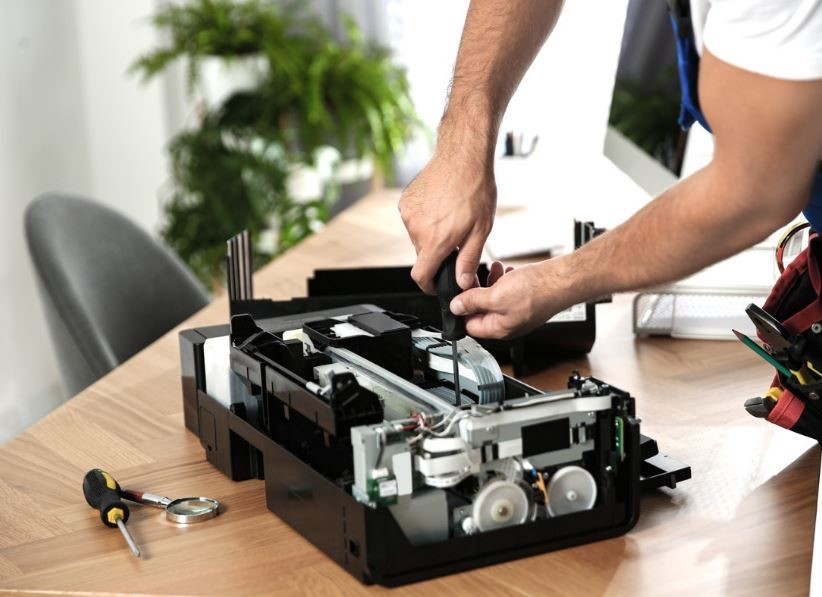
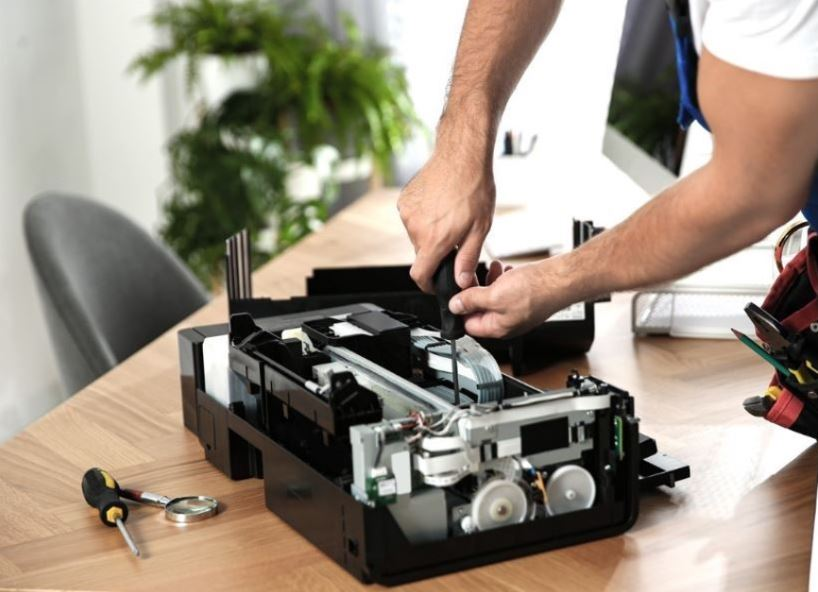
version 2 corregida

diff --git a/css/style.scss b/css/style.scss
@@ -103,7 +103,7 @@ header {
 }
 
 /*---------------------------------------------------------------------------------------------------------------------------------------------------*/
-.hero { background: linear-gradient(rgba(75, 77, 78, 0.8), rgba(0,0,0,0.5)), url('assets/image/background.JPG'); background-size: cover; background-position: center; height: 70vh; color: white; display: flex; flex-direction: column; justify-content: center; align-items: center; text-align: center; padding: 0 20px; }
+.hero { background: linear-gradient(rgba(75, 77, 78, 0.8), rgba(0,0,0,0.5)), url('/assets/image/background.JPG'); background-size: cover; background-position: center; height: 70vh; color: white; display: flex; flex-direction: column; justify-content: center; align-items: center; text-align: center; padding: 0 20px; }
 
 .btn { background: #007bff; color: #ffffff; padding: 12px 24px; border-radius: 5px; text-decoration: none; font-weight: bold; margin-top: 20px; }
 

diff --git a/css/style.css b/css/style.css
@@ -159,7 +159,7 @@ header {
 }
 /*---------------------------------------------------------------------------------------------------------------------------------------------------*/
 .hero {
-  background: linear-gradient(rgba(75, 77, 78, 0.8), rgba(0, 0, 0, 0.5)), url("assets/image/background.JPG");
+  background: linear-gradient(rgba(75, 77, 78, 0.8), rgba(0, 0, 0, 0.5)), url("/assets/image/background.JPG");
   background-size: cover;
   background-position: center;
   height: 70vh;
